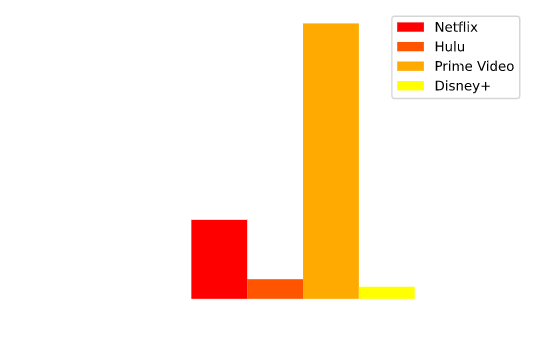
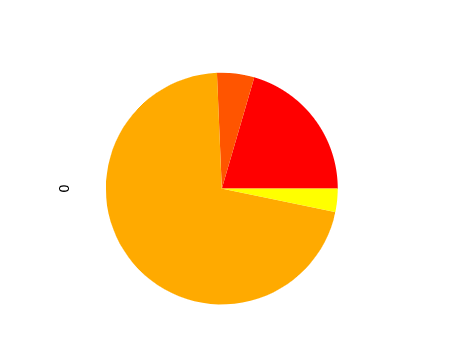
Replaced bar chart with pie chart.

diff --git a/staticfiles/movieuniverse/css/style.acf227832778.css b/staticfiles/movieuniverse/css/style.acf227832778.css
@@ -1,0 +1,287 @@
+@import url('https://fonts.googleapis.com/css2?family=Lato:ital,wght@0,100;0,300;0,400;0,700;0,900;1,100;1,300;1,400;1,700;1,900&display=swap');
+@import url("utilities.ceff6843e8e2.css");
+@import url("animations.e0b79d9ec17c.css");
+@import url("typography.bbf3d936be73.css");
+
+
+*,
+body,
+html {
+    margin: 0;
+    padding: 0;
+    box-sizing: border-box;
+    font-family: 'Lato', sans-serif;
+}
+
+::selection {
+    background-color: rgba(253,29,29,1);
+    color: #fff;
+}
+
+
+body {
+    position: relative;
+    height:100vh;
+    background: rgb(131,58,180);
+    background: -moz-linear-gradient(90deg, rgba(131,58,180,1) 0%, rgba(253,29,29,1) 50%, rgba(252,176,69,1) 100%);
+    background: -webkit-linear-gradient(90deg, rgba(131,58,180,1) 0%, rgba(253,29,29,1) 50%, rgba(252,176,69,1) 100%);
+    background: linear-gradient(90deg, rgba(131,58,180,1) 0%, rgba(253,29,29,1) 50%, rgba(252,176,69,1) 100%);
+    filter: progid:DXImageTransform.Microsoft.gradient(startColorstr="#833ab4",endColorstr="#fcb045",GradientType=1);
+    background-position: center;
+    background-size: cover;
+    color:#fff;
+}
+
+/* Movie form styles */
+.movie-form {
+    color: #fff;
+    position: absolute;
+    top: 50%;
+    left: 50%;
+    transform: translate(-50%, -50%);
+    text-align: center;
+    animation: fadeIn 1s;
+}
+
+.search-box {
+    background-color: rgba(255, 255, 255, 0.1);
+    backdrop-filter: blur(5px);
+    -webkit-backdrop-filter: blur(5px);
+    padding: 10px;
+    width: 100%;
+    color: #fff;
+    transition: 1s all;
+    border: none;
+}
+
+.search-box:focus {
+    background-color: rgba(255, 255, 255, 0.5);
+    border: 1px solid #fff;
+    padding: 10px;
+    outline: none;
+    box-shadow: 0 0 1rem 0 rgba(0, 0, 0, .2); 
+}
+
+.options {
+    display: flex;
+    align-items: baseline;
+}
+
+.checkbox {
+    margin: 10px 10px;
+}
+
+.choice {
+    margin-right: 10px;
+    font-weight: 100;
+}
+
+.recommendations-container {
+    background: linear-gradient(90deg, rgba(131,58,180,1) 0%, rgba(253,29,29,1) 50%, rgba(252,176,69,1) 100%);
+    box-shadow: 0 0 1rem 0 rgba(12, 12, 12, 0.2); 
+    backdrop-filter: blur(5px);
+    padding: 20px;
+    display: flex;
+}
+
+.recommended {
+    position: absolute;
+    bottom: 0%;
+    left: 50%;
+    transform: translateX(-50%) translateY(100%);
+}
+
+.recommendations-movie-card {
+    display: flex;
+    align-items: center;
+    justify-content: center;
+    float: left;
+    width: 100px;
+    margin: 10px;
+    padding: 10px;
+    border-radius: 5px;
+    height: 150px;
+    box-shadow: 0 0 1rem 0 rgba(12, 12, 12, 0.2); 
+    backdrop-filter: blur(100px);
+    transition: 0.5s all;
+}
+
+.recommendations-movie-card:hover {
+    box-shadow: 0 0 1.5rem 0 rgba(12, 12, 12, 0.5); 
+}
+
+.recommendations-container a {
+    color: #fff;
+    text-shadow: 0px 0px 10px rgba(0, 0, 0, .5);
+    background:linear-gradient()
+}
+
+.platform {
+    font-weight: 100;
+    padding: 20px;
+}
+
+.search-btn,
+.search-btn:active {
+    background-color: transparent;
+    border: 1px solid #fff;
+    padding: 10px;
+    margin: 10px;
+    margin-top: 25px;
+    color: #fff;
+    cursor: pointer;
+    outline: none;
+}
+
+.search-btn:hover {
+    color: transparent;
+    background-color: #fff;
+    background-clip: text;
+    -webkit-background-clip: text;
+}
+
+/* Results styles */
+.results-container {
+    display: flex;
+    flex-wrap: wrap;
+    padding: 20px;
+    justify-content: space-evenly;
+}
+
+.result-card {
+    display: flex;
+    justify-content: center;
+    margin: 10px;
+    padding: 25px;
+    border-radius: 5px;
+    box-shadow: 0 0 1rem 0 rgba(12, 12, 12, 0.2); 
+    color: #fff;
+    backdrop-filter: blur(100px);
+    width: 400px;
+    animation: fadeInUp 1s;
+    transition: 0.5s all;
+}
+
+.result-card:hover {
+    box-shadow: 0 0 1.5rem 0 rgba(12, 12, 12, 0.5); 
+}
+
+.results-container a:link, a:visited,
+.recommended-container a:link, a:visited {
+    color: white;
+    text-decoration: none;
+
+}
+
+.query-heading {
+    color: white;
+    font-weight: 100;
+    text-transform: uppercase;
+    animation: fadeIn 1s;
+}
+
+.query {
+    font-weight: 400;
+}
+
+.query-container {
+    padding: 20px;
+}
+
+/* Detail styles */
+.detail-container {
+    background-color: #fff;
+    border-radius: 5px;
+    box-shadow: 0 0 1rem 0 rgba(12, 12, 12, 0.2); 
+    height: 75vh;
+    padding: 50px;
+    margin: 100px;
+    color:rgba(131,58,180,1);
+    overflow: scroll;
+    animation: blurIn 1.25s ease-in;
+}
+
+.detail-inner {
+    display: inline-block;
+    width: 50%;
+    padding: 50px;
+}
+
+.detail-outer {
+    display: flex;
+    flex-direction: row;
+    justify-content: center;
+    align-items: center;
+}
+
+.movie-header {
+    font-size: 75px;
+    text-transform: uppercase;
+    background: linear-gradient(90deg, rgba(131,58,180,1) 0%, rgba(253,29,29,1) 50%, rgba(252,176,69,1) 100%);
+    background-clip: text;
+    -webkit-background-clip: text;
+    color: transparent;
+}
+
+.provider-logo {
+    width: 150px;
+}
+
+.streaming-services {
+    display: flex;
+    align-items: center;
+    justify-content: center;
+}
+
+.rt-rating {
+    width: 20px;
+}
+
+/* Insights styles */
+
+.insights-heading {
+    margin: 20px;
+}
+
+.insights-img {
+    box-shadow: 0 0 1rem 0 rgba(12, 12, 12, 0.2);
+    padding: 10px;
+    margin: 10px;
+    transition: all 1s;
+}
+
+.insights-img:hover {
+    box-shadow: 0 0 1rem 0 rgba(12, 12, 12, 0.5);
+}
+
+
+
+
+@media only screen and (max-width: 700px) {
+    .recommendations-container {
+        flex-direction: column;
+        align-items: center;
+    }
+
+    .detail-container {
+        height: initial;
+        margin: 0;
+    }
+
+    .detail-outer,
+    .streaming-services {
+        flex-direction: column;
+        justify-content: initial;
+        align-items: initial;
+    }
+
+    .movie-header {
+        font-size: 50px;
+    }
+
+    .options {
+        flex-direction: column;
+        justify-content: center;
+        align-items: center;
+    }
+}

diff --git a/movieuniverse/templates/movieuniverse/insights.html b/movieuniverse/templates/movieuniverse/insights.html
@@ -9,7 +9,7 @@
     <h1 class="insights-heading">Genres Count Totals</h1>
     <img class="insights-img" src="{% static 'movieuniverse/img/Genres.png' %}" alt="">
 
-    <h1 class="insights-heading">Movie Count by Streaming Provider</h1>
+    <h1 class="insights-heading">Percentage of Movies by Streaming Provider </h1>
     <img class="insights-img" src="{% static 'movieuniverse/img/MovieCount.png' %}" alt="">
 </div>
 {% endblock %}
